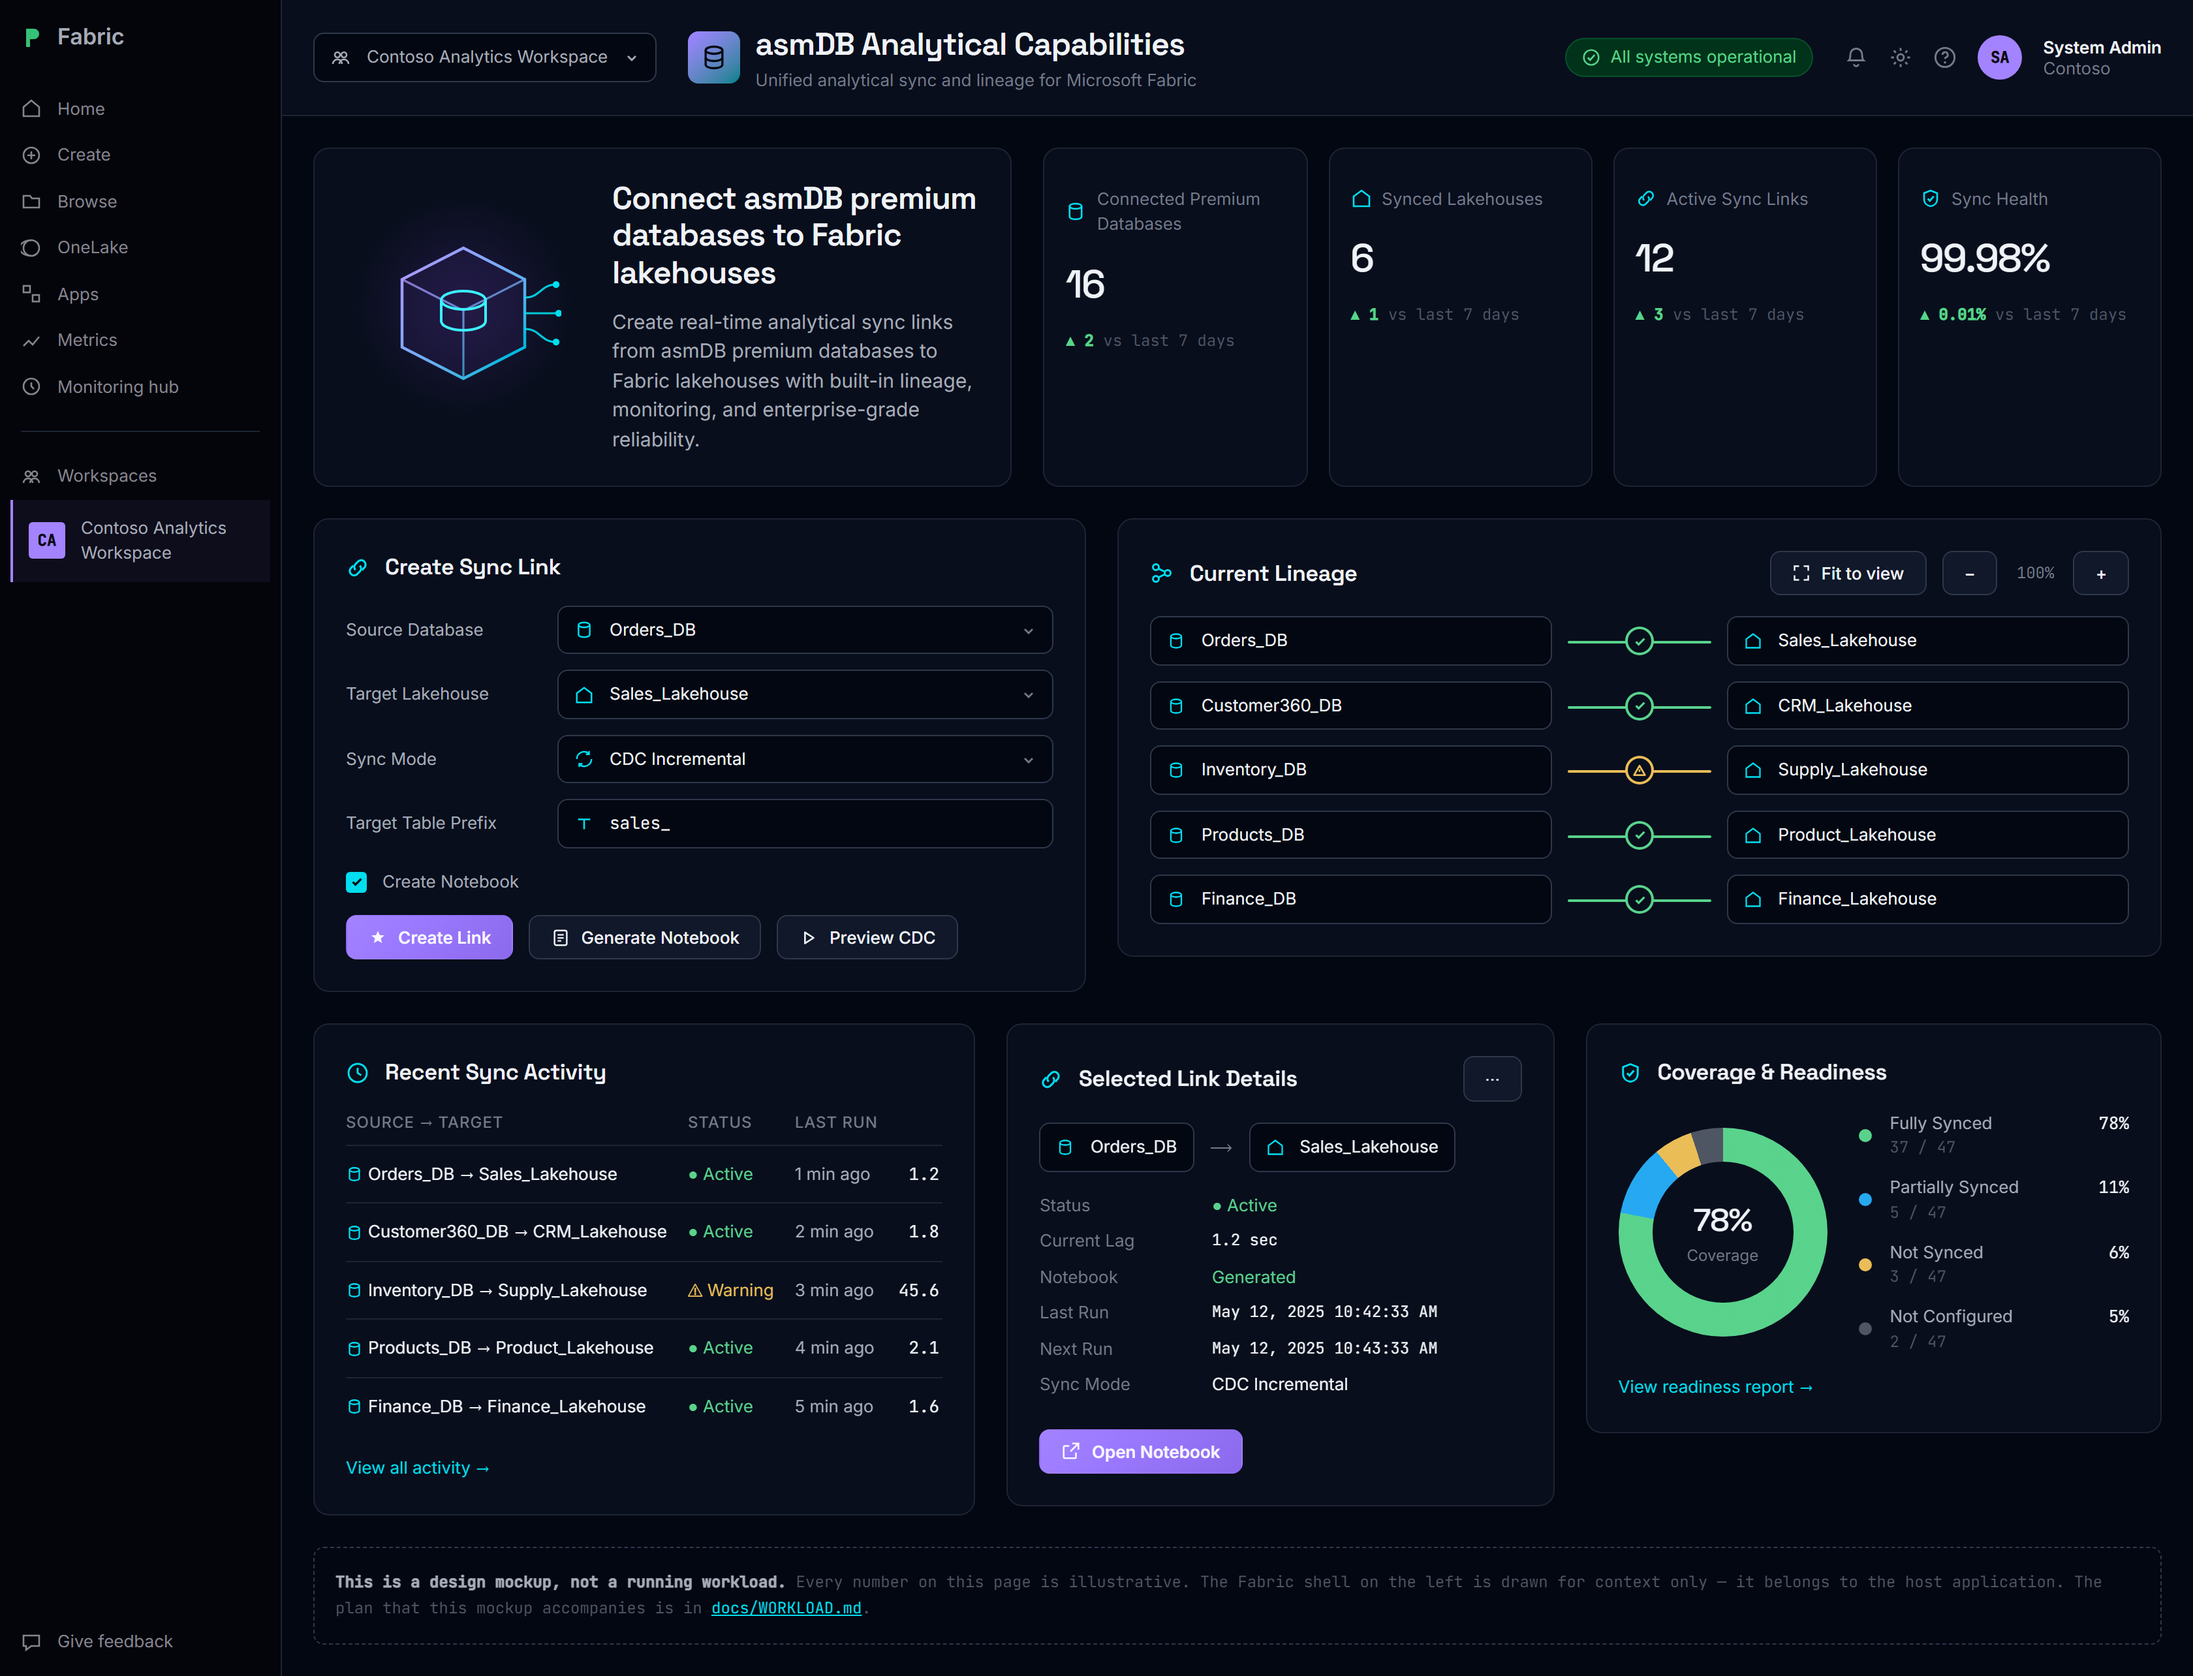
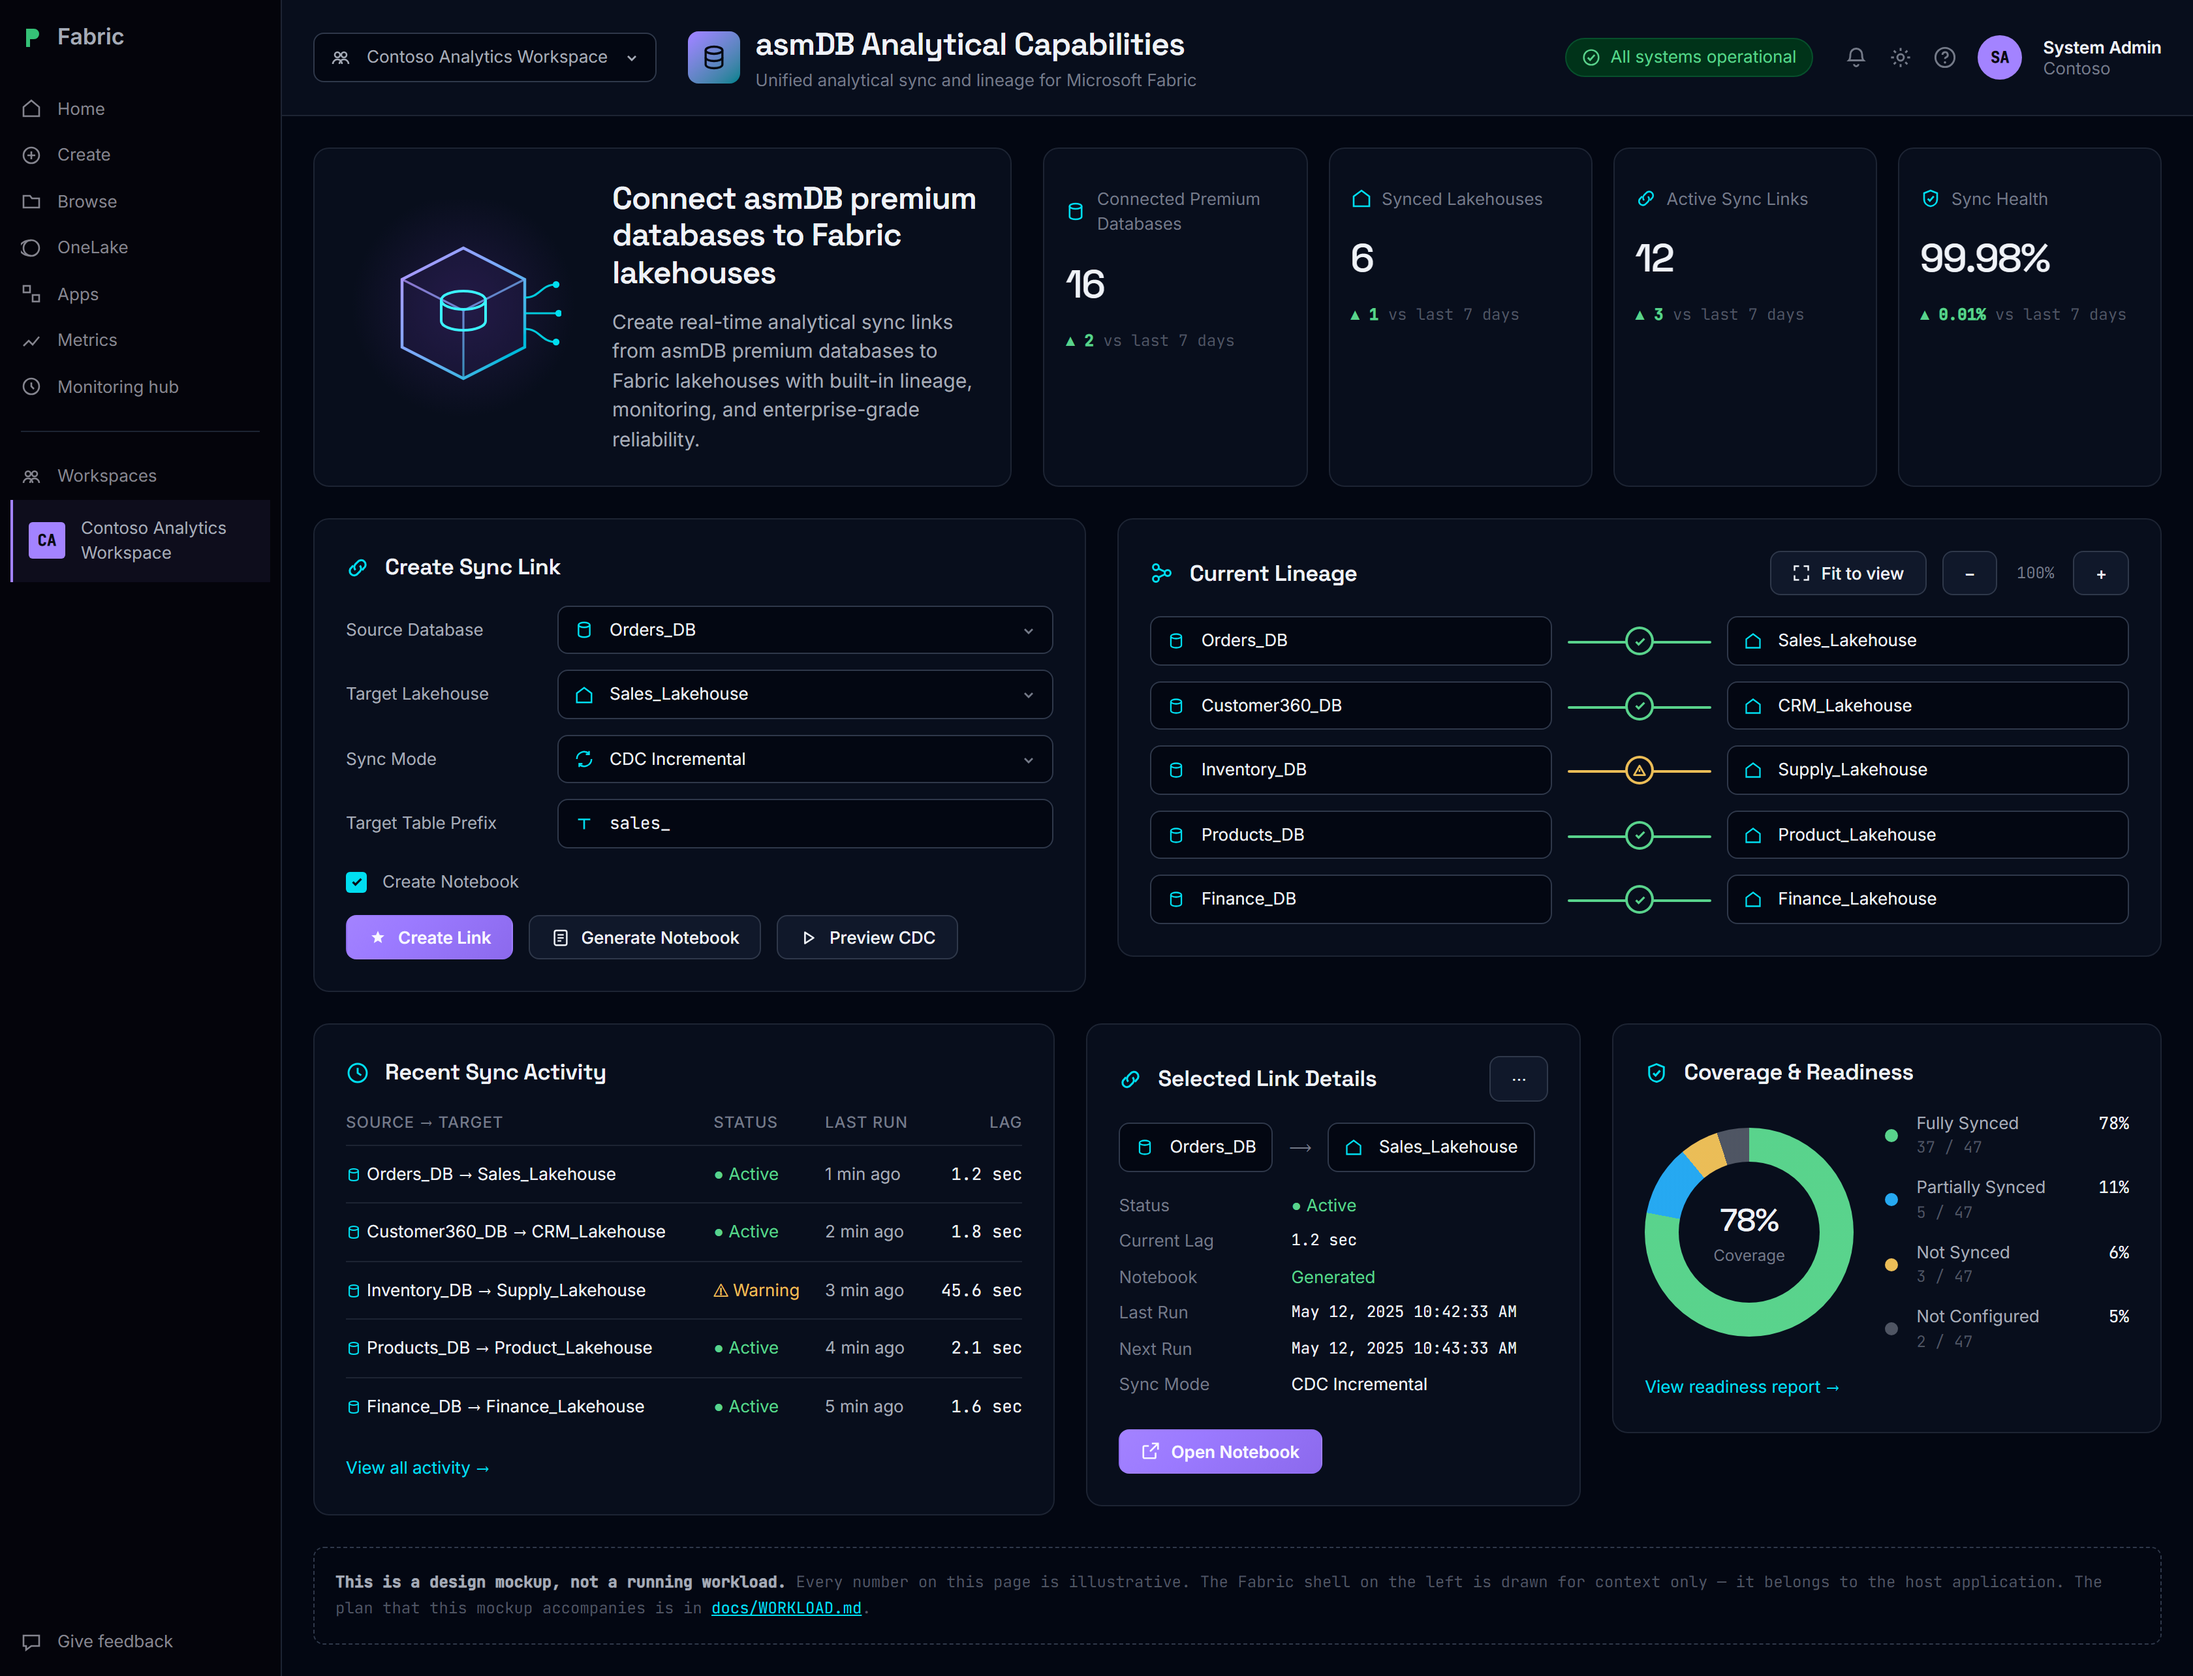
Stop the mockup clipping the sync lag column
The activity table sat in the narrowest of three tracks, so the Lag column was
cut off and the run times wrapped onto two lines. Widened the track, tightened
the cell padding and stopped the run-time column wrapping. Verified by rendering:
no page overflow and no clipped table.

diff --git a/workload/mockup/index.html b/workload/mockup/index.html
@@ -282,31 +282,31 @@
               </thead>
               <tbody>
                 <tr>
-                  <td><span class="pair"><svg class="icon" width="13" height="13" viewBox="0 0 16 16" fill="none" aria-hidden="true"><ellipse cx="8" cy="4" rx="4.6" ry="2" stroke="currentColor" stroke-width="1.4"/><path d="M3.4 4v8c0 1.1 2 2 4.6 2s4.6-.9 4.6-2V4" stroke="currentColor" stroke-width="1.4"/></svg><span>Orders_DB → Sales_Lakehouse</span></span></td>
+                  <td><span class="pair"><svg class="icon" width="12" height="12" viewBox="0 0 16 16" fill="none" aria-hidden="true"><ellipse cx="8" cy="4" rx="4.6" ry="2" stroke="currentColor" stroke-width="1.4"/><path d="M3.4 4v8c0 1.1 2 2 4.6 2s4.6-.9 4.6-2V4" stroke="currentColor" stroke-width="1.4"/></svg><span>Orders_DB → Sales_Lakehouse</span></span></td>
                   <td><span class="status status--ok">● Active</span></td>
                   <td class="when">1 min ago</td>
                   <td class="num">1.2 sec</td>
                 </tr>
                 <tr>
-                  <td><span class="pair"><svg class="icon" width="13" height="13" viewBox="0 0 16 16" fill="none" aria-hidden="true"><ellipse cx="8" cy="4" rx="4.6" ry="2" stroke="currentColor" stroke-width="1.4"/><path d="M3.4 4v8c0 1.1 2 2 4.6 2s4.6-.9 4.6-2V4" stroke="currentColor" stroke-width="1.4"/></svg><span>Customer360_DB → CRM_Lakehouse</span></span></td>
+                  <td><span class="pair"><svg class="icon" width="12" height="12" viewBox="0 0 16 16" fill="none" aria-hidden="true"><ellipse cx="8" cy="4" rx="4.6" ry="2" stroke="currentColor" stroke-width="1.4"/><path d="M3.4 4v8c0 1.1 2 2 4.6 2s4.6-.9 4.6-2V4" stroke="currentColor" stroke-width="1.4"/></svg><span>Customer360_DB → CRM_Lakehouse</span></span></td>
                   <td><span class="status status--ok">● Active</span></td>
                   <td class="when">2 min ago</td>
                   <td class="num">1.8 sec</td>
                 </tr>
                 <tr>
-                  <td><span class="pair"><svg class="icon" width="13" height="13" viewBox="0 0 16 16" fill="none" aria-hidden="true"><ellipse cx="8" cy="4" rx="4.6" ry="2" stroke="currentColor" stroke-width="1.4"/><path d="M3.4 4v8c0 1.1 2 2 4.6 2s4.6-.9 4.6-2V4" stroke="currentColor" stroke-width="1.4"/></svg><span>Inventory_DB → Supply_Lakehouse</span></span></td>
+                  <td><span class="pair"><svg class="icon" width="12" height="12" viewBox="0 0 16 16" fill="none" aria-hidden="true"><ellipse cx="8" cy="4" rx="4.6" ry="2" stroke="currentColor" stroke-width="1.4"/><path d="M3.4 4v8c0 1.1 2 2 4.6 2s4.6-.9 4.6-2V4" stroke="currentColor" stroke-width="1.4"/></svg><span>Inventory_DB → Supply_Lakehouse</span></span></td>
                   <td><span class="status status--warn">⚠ Warning</span></td>
                   <td class="when">3 min ago</td>
                   <td class="num">45.6 sec</td>
                 </tr>
                 <tr>
-                  <td><span class="pair"><svg class="icon" width="13" height="13" viewBox="0 0 16 16" fill="none" aria-hidden="true"><ellipse cx="8" cy="4" rx="4.6" ry="2" stroke="currentColor" stroke-width="1.4"/><path d="M3.4 4v8c0 1.1 2 2 4.6 2s4.6-.9 4.6-2V4" stroke="currentColor" stroke-width="1.4"/></svg><span>Products_DB → Product_Lakehouse</span></span></td>
+                  <td><span class="pair"><svg class="icon" width="12" height="12" viewBox="0 0 16 16" fill="none" aria-hidden="true"><ellipse cx="8" cy="4" rx="4.6" ry="2" stroke="currentColor" stroke-width="1.4"/><path d="M3.4 4v8c0 1.1 2 2 4.6 2s4.6-.9 4.6-2V4" stroke="currentColor" stroke-width="1.4"/></svg><span>Products_DB → Product_Lakehouse</span></span></td>
                   <td><span class="status status--ok">● Active</span></td>
                   <td class="when">4 min ago</td>
                   <td class="num">2.1 sec</td>
                 </tr>
                 <tr>
-                  <td><span class="pair"><svg class="icon" width="13" height="13" viewBox="0 0 16 16" fill="none" aria-hidden="true"><ellipse cx="8" cy="4" rx="4.6" ry="2" stroke="currentColor" stroke-width="1.4"/><path d="M3.4 4v8c0 1.1 2 2 4.6 2s4.6-.9 4.6-2V4" stroke="currentColor" stroke-width="1.4"/></svg><span>Finance_DB → Finance_Lakehouse</span></span></td>
+                  <td><span class="pair"><svg class="icon" width="12" height="12" viewBox="0 0 16 16" fill="none" aria-hidden="true"><ellipse cx="8" cy="4" rx="4.6" ry="2" stroke="currentColor" stroke-width="1.4"/><path d="M3.4 4v8c0 1.1 2 2 4.6 2s4.6-.9 4.6-2V4" stroke="currentColor" stroke-width="1.4"/></svg><span>Finance_DB → Finance_Lakehouse</span></span></td>
                   <td><span class="status status--ok">● Active</span></td>
                   <td class="when">5 min ago</td>
                   <td class="num">1.6 sec</td>
@@ -396,4 +396,5 @@
 
 </body>
 </html>
+
 

diff --git a/workload/mockup/mockup.css b/workload/mockup/mockup.css
@@ -280,7 +280,7 @@ a { color: var(--color-accent); }
 
 /* -------------------------------- tables -------------------------------- */
 
-.trio { display: grid; grid-template-columns: minmax(0, 1.15fr) minmax(0, 0.95fr) minmax(0, 1fr); gap: var(--space-lg); align-items: start; }
+.trio { display: grid; grid-template-columns: minmax(0, 1.35fr) minmax(0, 0.9fr) minmax(0, 1fr); gap: var(--space-lg); align-items: start; }
 @media (max-width: 1500px) { .trio { grid-template-columns: minmax(0, 1fr) minmax(0, 1fr); } }
 @media (max-width: 900px)  { .trio { grid-template-columns: minmax(0, 1fr); } }
 
@@ -289,11 +289,11 @@ table { width: 100%; border-collapse: collapse; font-size: var(--text-sm); }
 thead th {
   text-align: left; font-weight: 500; color: var(--color-ink-3);
   font-size: var(--text-xs); letter-spacing: 0.04em; text-transform: uppercase;
-  padding: 0 var(--space-md) var(--space-xs) 0;
+  padding: 0 var(--space-sm) var(--space-xs) 0;
   border-bottom: 1px solid var(--color-rule); white-space: nowrap;
 }
 thead th:last-child { padding-right: 0; text-align: right; }
-tbody td { padding: var(--space-sm) var(--space-md) var(--space-sm) 0; border-bottom: 1px solid var(--color-rule); vertical-align: middle; }
+tbody td { padding: var(--space-sm) var(--space-sm) var(--space-sm) 0; border-bottom: 1px solid var(--color-rule); vertical-align: middle; }
 tbody td:last-child { padding-right: 0; }
 tbody tr:last-child td { border-bottom: 0; }
 td.when { white-space: nowrap; color: var(--color-ink-2); }
@@ -352,3 +352,4 @@ td.num { font-family: var(--font-mono); text-align: right; white-space: nowrap; 
 @media (prefers-reduced-motion: reduce) {
   *, *::before, *::after { transition-duration: 0.01ms !important; animation-duration: 0.01ms !important; }
 }
+
